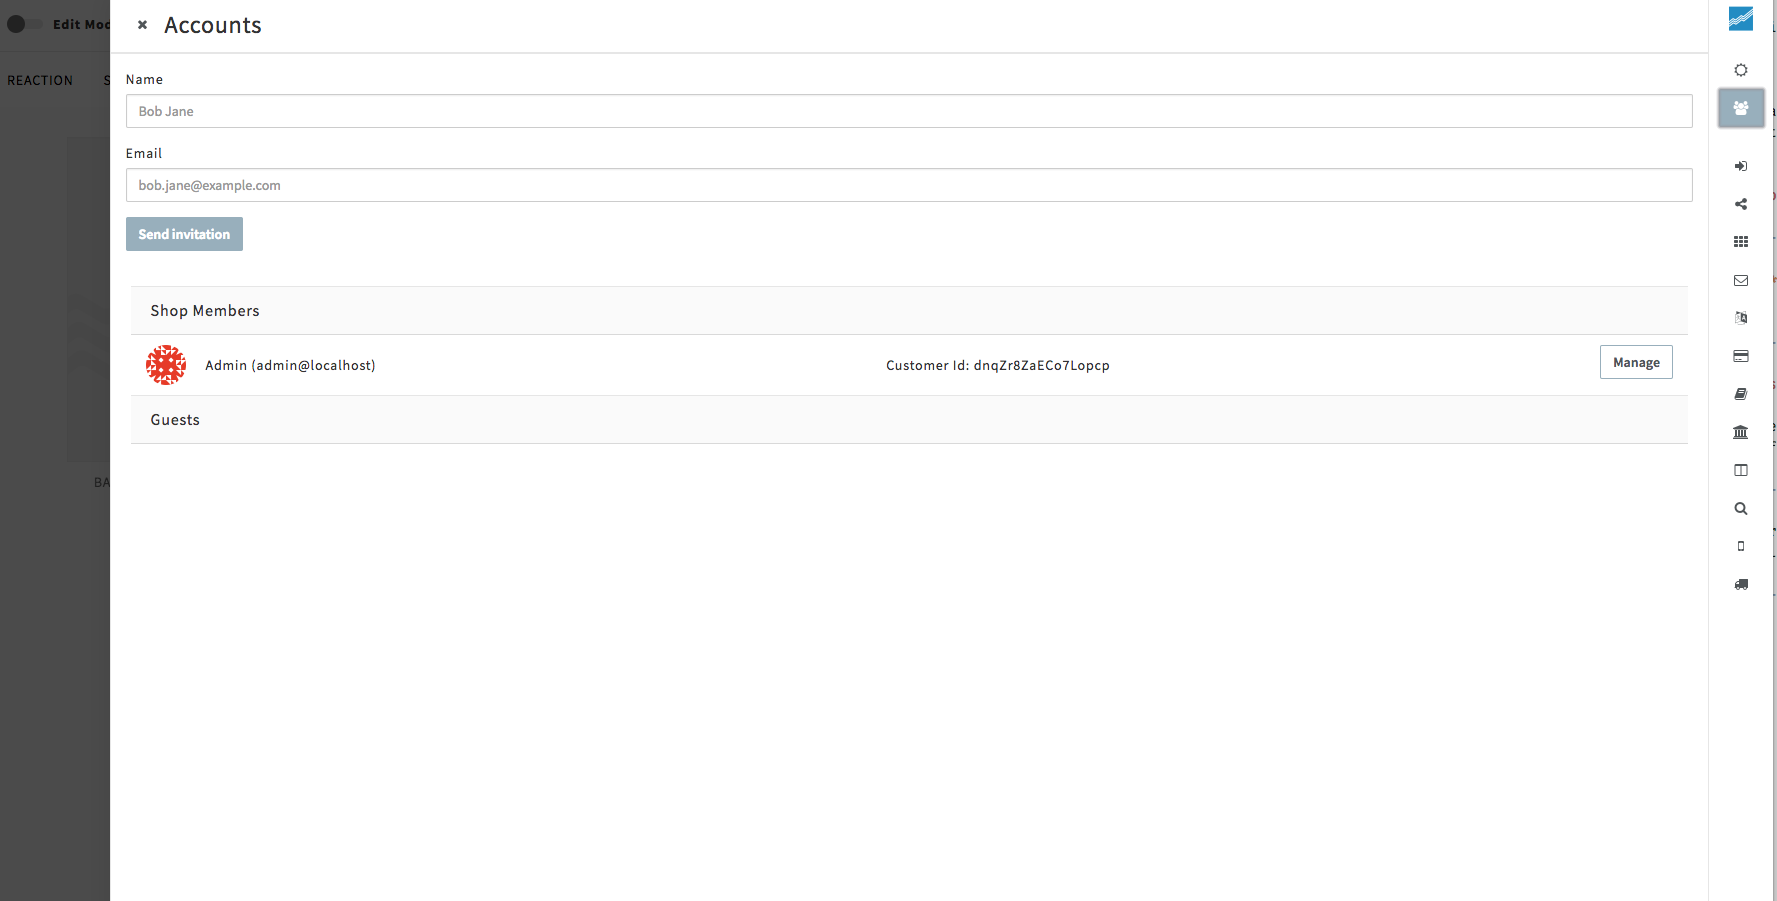
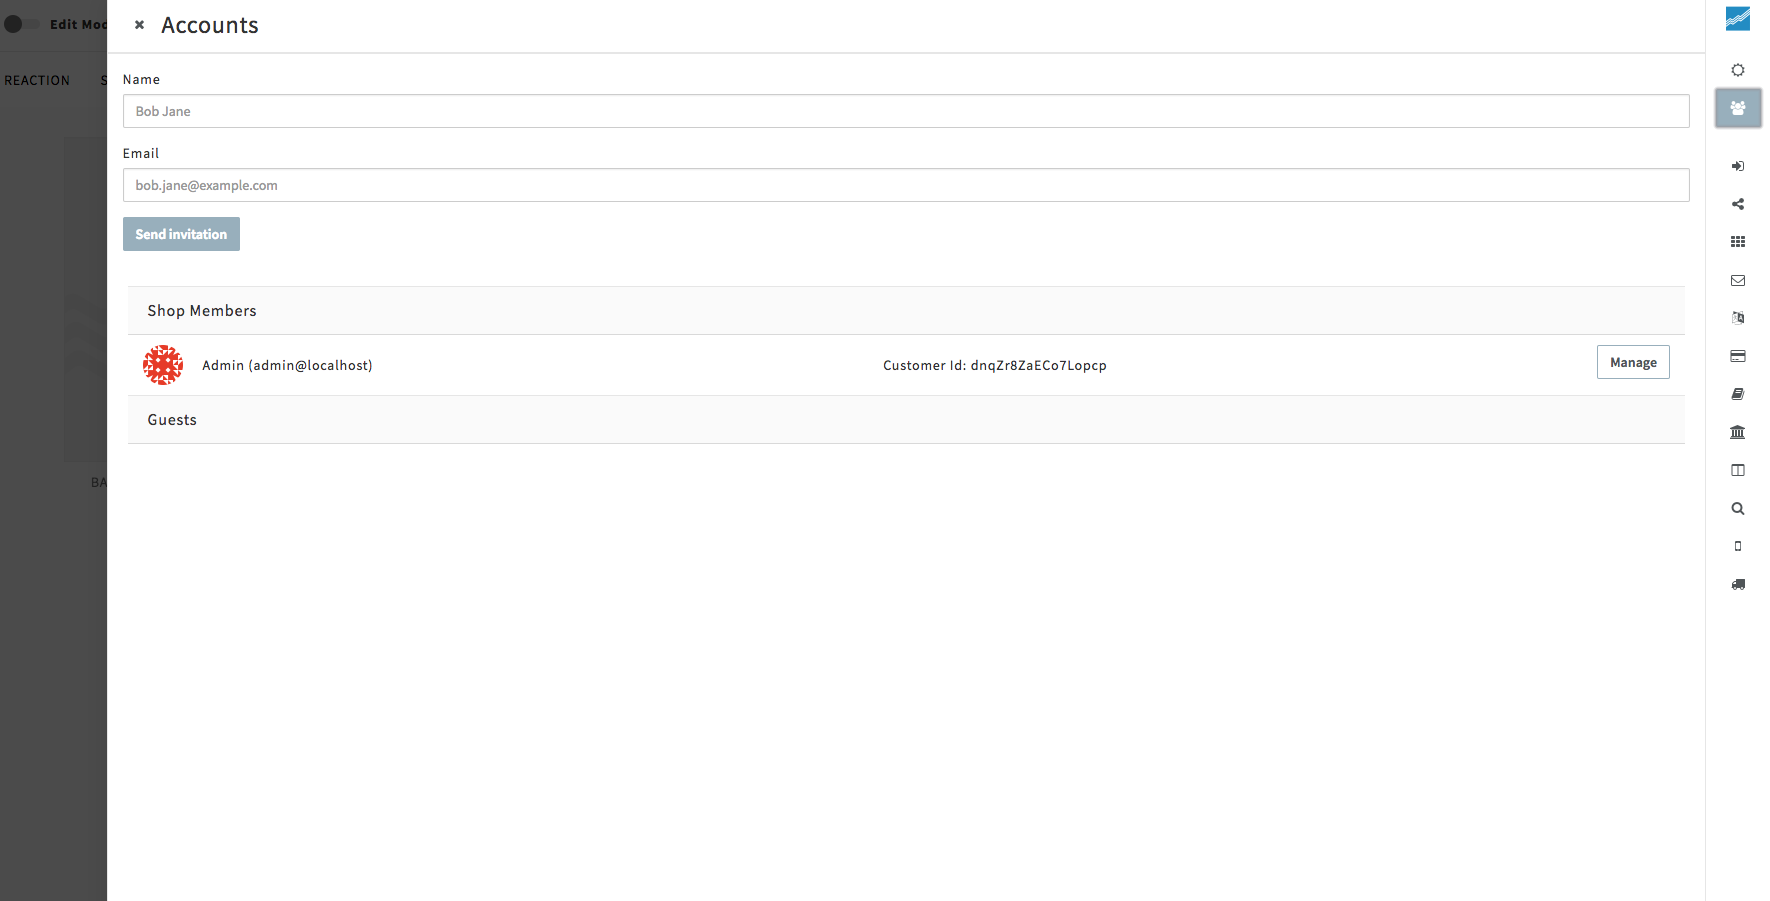
update account imgs and text

diff --git a/admin/dashboard/accounts.md b/admin/dashboard/accounts.md
@@ -4,9 +4,7 @@ The Accounts section is your gateway to all things related to your shop members 
 
 Before getting started, make sure you are logged in as an operator and click the <i class="font-icon fa fa-users"></i> **Accounts** icon in the Dashboard sidebar.
 
-![](/assets/admin-dashboard-accounts-add.png "Reaction Commerce Dashboard - Accounts")
-
-## Add a shop team members
+## Add shop members
 
 ![](/assets/admin-accounts-add-member.png "Reaction Commerce Dashboard - Add a shop team member")
 
@@ -14,10 +12,8 @@ Enter the user's **Name** and **Email** in the fields below, and click **Send in
 
 Make sure to set up [email](/admin/dashboard/email-admin.md) before inviting shop team members.
 
-## Manage member settings
-
-To configure member permissions, click on the arrow icon, located at the bottom right-hand side of the Accounts card. Then, hit the Manage button.
-
-Toggle each feature on and off to allow or deny member access. If a feature is turned off, it will not be visible on that member's dashboard.
+## Manage shop member permissions
 
 ![](/assets/admin-accounts-manage.png "Reaction Commerce Dashboard - Manage shop team member permissions")
+
+Click **Manage** next to the member's name. Toggle each feature on and off to allow or deny member access. If a feature is turned off, it will not be visible on that member's dashboard.
